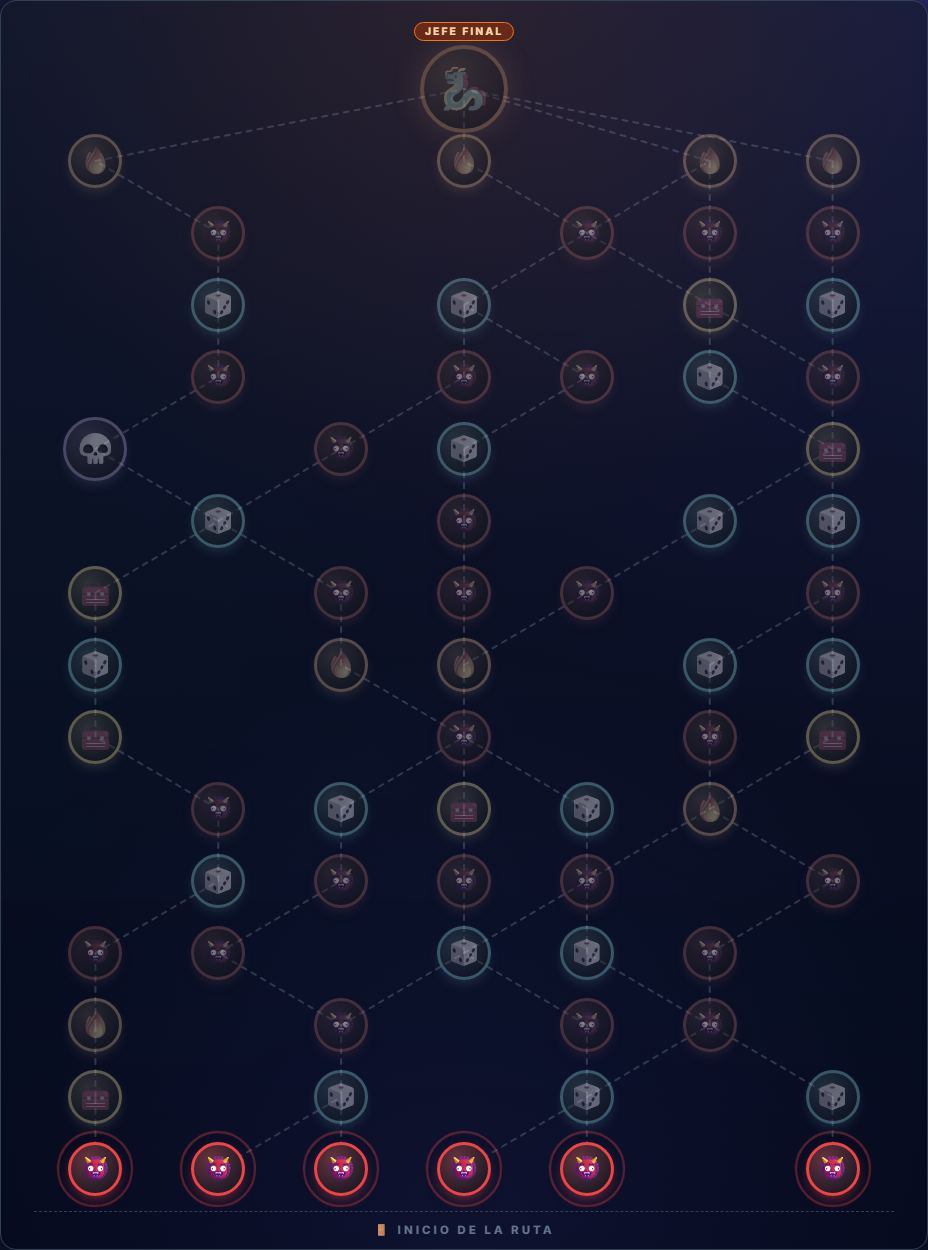
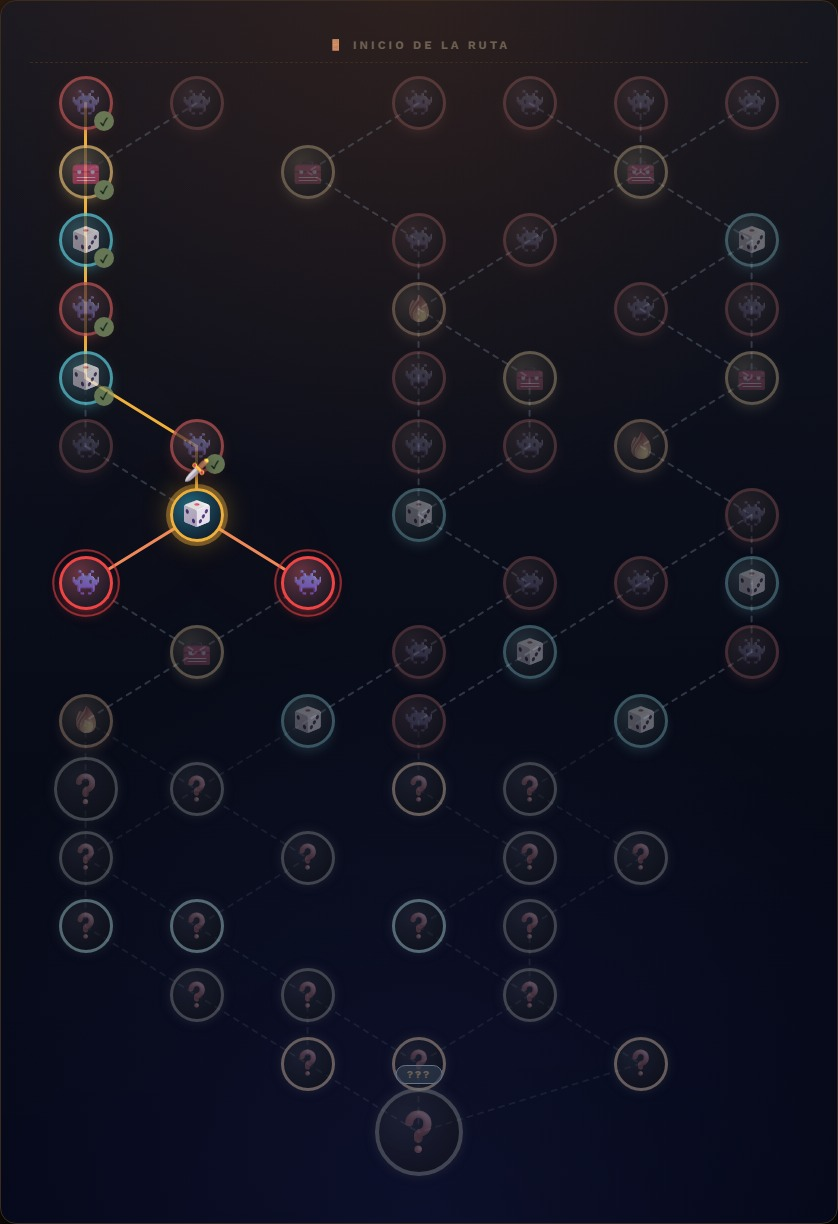
Versión 1.3.1: mapa al revés, niebla de guerra y nuevo icono de monstruo

diff --git a/src/ui.js b/src/ui.js
@@ -1,7 +1,7 @@
-import * as Engine from './engine.js?v=1.3.0';
-import * as Items from './items.js?v=1.3.0';
-import * as Meta from './meta.js?v=1.3.0';
-import * as Stats from './stats.js?v=1.3.0';
+import * as Engine from './engine.js?v=1.3.1';
+import * as Items from './items.js?v=1.3.1';
+import * as Meta from './meta.js?v=1.3.1';
+import * as Stats from './stats.js?v=1.3.1';
 
 // =============================================
 // 🖼 RPG-pack — capa de presentación (DOM)
@@ -136,9 +136,14 @@ export function renderRpgHeroPanel(hero, progressText, gold) {
         <div class="rpg-hero-progress">${esc(progressText || '')}</div>`;
 }
 
+// Niebla de guerra: cuántos pisos por delante de la posición actual se ven con claridad.
+// Piso actual + este número de opciones se ve; a partir de ahí, niebla, y se despeja según avanzas.
+const RPG_FOG_AHEAD = 3;
+
 /**
  * Dibuja el mapa: aristas en un SVG en porcentajes (se estira con el contenedor) y
- * nodos como botones posicionados en % (columna) / % (piso, el piso 0 abajo).
+ * nodos como botones posicionados en % (columna) / % (piso, el piso 0 arriba: se avanza hacia abajo).
+ * Los pisos que quedan a más de RPG_FOG_AHEAD opciones de la posición actual se cubren con niebla de guerra.
  * state: { currentId, visitedIds, heroIcon, animate }
  */
 export function renderRpgMap(map, state = {}) {
@@ -151,7 +156,7 @@ export function renderRpgMap(map, state = {}) {
     const skip = !!state.skip;
     const available = new Set(Engine.rpgAvailableNodes(map, currentId, skip));
     const byId = new Map(map.nodes.map(n => [n.id, n]));
-    const pos = n => ({ x: (n.col + 0.5) / cols * 100, y: (floors - 1 - n.floor + 0.5) / floors * 100 });
+    const pos = n => ({ x: (n.col + 0.5) / cols * 100, y: (n.floor + 0.5) / floors * 100 });
 
     const taken = new Set();
     for (let i = 1; i < visitedIds.length; i++) taken.add(`${visitedIds[i - 1]}>${visitedIds[i]}`);
@@ -160,38 +165,48 @@ export function renderRpgMap(map, state = {}) {
     const openFrom = new Set([currentId]);
     if (skip && current) current.next.forEach(id => openFrom.add(id));
 
+    const currentFloor = current ? current.floor : -1;
+    const isFogged = n => (n.floor - currentFloor) > RPG_FOG_AHEAD && n.id !== currentId
+        && !visited.has(n.id) && !available.has(n.id);
+
     const lines = map.nodes.flatMap(n => n.next.map(id => {
+        const to = byId.get(id);
         const a = pos(n);
-        const b = pos(byId.get(id));
+        const b = pos(to);
         const cls = taken.has(`${n.id}>${id}`) ? 'is-taken' : (openFrom.has(n.id) ? 'is-open' : '');
-        return `<line class="rpg-edge ${cls}" x1="${a.x}" y1="${a.y}" x2="${b.x}" y2="${b.y}" vector-effect="non-scaling-stroke"/>`;
+        const fog = isFogged(to) ? ' is-fog' : '';
+        return `<line class="rpg-edge ${cls}${fog}" x1="${a.x}" y1="${a.y}" x2="${b.x}" y2="${b.y}" vector-effect="non-scaling-stroke"/>`;
     })).join('');
 
     const nodesHtml = map.nodes.map((n, i) => {
         const t = Engine.RPG_NODE_TYPES[n.type];
         const p = pos(n);
+        const fogged = isFogged(n);
         const st = n.id === currentId ? 'is-current'
             : visited.has(n.id) ? 'is-visited'
             : available.has(n.id) ? 'is-available' : 'is-locked';
         const hero = st === 'is-current' ? ` data-hero="${esc(state.heroIcon || '')}"` : '';
-        let info = t.desc;
-        if (n.type === 'monster' || n.type === 'subboss' || n.type === 'boss') {
+        let icon = t.icon, name = t.name, info = t.desc;
+        if (fogged) {
+            icon = '❓'; name = 'Niebla de guerra'; info = 'Aún no has explorado tan lejos.';
+        } else if (n.type === 'monster' || n.type === 'subboss' || n.type === 'boss') {
             const s = Engine.rpgMonsterStats(n.type, n.floor);
             info = `${t.desc} ATK ${s.atq} · HP ${s.hp}`;
         }
-        return `<button type="button" class="rpg-node type-${esc(n.type)} ${st}" data-rpg-node="${esc(n.id)}"
+        return `<button type="button" class="rpg-node type-${esc(n.type)} ${st}${fogged ? ' is-fog' : ''}" data-rpg-node="${esc(n.id)}"
             style="left:${p.x}%;top:${p.y}%;--i:${i}" ${st === 'is-available' ? '' : 'disabled'}${hero}
-            title="${esc(t.name)} — ${esc(info)}" aria-label="${esc(t.name)}, piso ${n.floor + 1}">${t.icon}</button>`;
+            title="${esc(name)} — ${esc(info)}" aria-label="${fogged ? esc(name) : `${esc(name)}, piso ${n.floor + 1}`}">${icon}</button>`;
     }).join('');
 
     const boss = byId.get(map.bossId);
     const bp = pos(boss);
+    const bossFogged = isFogged(boss);
     el.style.setProperty('--rpg-floors', floors);
     el.classList.toggle('animate', !!state.animate);
     el.innerHTML = `
         <svg class="rpg-map-lines" viewBox="0 0 100 100" preserveAspectRatio="none" aria-hidden="true">${lines}</svg>
         ${nodesHtml}
-        <div class="rpg-boss-tag" style="left:${bp.x}%;top:${bp.y}%">JEFE FINAL</div>`;
+        <div class="rpg-boss-tag${bossFogged ? ' is-fog' : ''}" style="left:${bp.x}%;top:${bp.y}%">${bossFogged ? '???' : 'JEFE FINAL'}</div>`;
 
     if (state.animate) setTimeout(() => el.classList.remove('animate'), 1200);
 }

diff --git a/index.html b/index.html
@@ -8,7 +8,7 @@
     <link rel="preconnect" href="https://fonts.googleapis.com">
     <link rel="preconnect" href="https://fonts.gstatic.com" crossorigin>
     <link href="https://fonts.googleapis.com/css2?family=Cinzel:wght@600;800&family=Work+Sans:wght@400;500;600;700&display=swap" rel="stylesheet">
-    <link rel="stylesheet" href="style.css?v=1.3.0">
+    <link rel="stylesheet" href="style.css?v=1.3.1">
 </head>
 <body>
     <header class="game-header">
@@ -19,7 +19,7 @@
             <button type="button" class="game-nav-btn" data-panel="achievements" title="Logros"><span aria-hidden="true">🏆</span><span class="game-nav-label">Logros</span></button>
             <button type="button" class="game-nav-btn" data-panel="options" title="Opciones"><span aria-hidden="true">⚙</span><span class="game-nav-label">Opciones</span></button>
         </nav>
-        <span class="game-version">v1.3.0 · en desarrollo</span>
+        <span class="game-version">v1.3.1 · en desarrollo</span>
     </header>
 
     <!-- Paneles superpuestos: consultables en cualquier momento, sin abandonar la ruta en curso -->
@@ -38,7 +38,7 @@
                     <p class="rpg-start-kicker">Una mazmorra de 16 pisos · una ruta distinta cada vez</p>
                     <div id="rpgHeroCard" class="rpg-hero-card"></div>
                     <ul class="rpg-start-preview">
-                        <li><span aria-hidden="true">👹</span> Combates que se ven venir</li>
+                        <li><span aria-hidden="true">👾</span> Combates que se ven venir</li>
                         <li><span aria-hidden="true">🎲</span> Decisiones que cuestan algo</li>
                         <li><span aria-hidden="true">🔥</span> Hogueras para respirar</li>
                         <li><span aria-hidden="true">🐉</span> Un jefe al final del descenso</li>
@@ -65,8 +65,8 @@
                 </div>
                 <div class="rpg-legend" id="rpgLegend"></div>
                 <div class="rpg-map-wrap">
-                    <div class="rpg-map" id="rpgMap"></div>
                     <div class="rpg-map-start">🚪 INICIO DE LA RUTA</div>
+                    <div class="rpg-map" id="rpgMap"></div>
                 </div>
                 <div class="rpg-log" id="rpgLog">
                     <div class="rpg-log-title">📜 Diario de la ruta</div>
@@ -117,6 +117,6 @@
     </main>
 
     <script src="https://cdnjs.cloudflare.com/ajax/libs/gsap/3.12.5/gsap.min.js"></script>
-    <script type="module" src="src/main.js?v=1.3.0"></script>
+    <script type="module" src="src/main.js?v=1.3.1"></script>
 </body>
 </html>

diff --git a/style.css b/style.css
@@ -383,7 +383,7 @@ body {
 .rpg-map-wrap {
     max-width: 860px;
     margin: 0 auto;
-    padding: 52px clamp(12px, 3vw, 34px) 12px;
+    padding: 36px clamp(12px, 3vw, 34px) 56px;
     background:
         radial-gradient(circle at 50% 0%, rgba(249, 115, 22, 0.10), transparent 40%),
         radial-gradient(circle at 50% 100%, rgba(99, 102, 241, 0.10), transparent 45%),
@@ -411,6 +411,7 @@ body {
 }
 .rpg-edge.is-open { stroke: var(--primary-light); stroke-width: 3; stroke-dasharray: none; filter: drop-shadow(0 0 4px var(--primary-glow)); }
 .rpg-edge.is-taken { stroke: var(--gold); stroke-width: 3; stroke-dasharray: none; filter: drop-shadow(0 0 4px var(--gold-glow)); }
+.rpg-edge.is-fog { stroke: rgba(100, 116, 139, 0.16); }
 
 .rpg-node {
     --node-color: #ef4444;
@@ -440,6 +441,13 @@ body {
 .rpg-node.type-boss { --node-color: #f97316; --node-size: clamp(56px, 10vw, 88px); border-width: 4px; box-shadow: 0 0 34px -4px rgba(249, 115, 22, 0.7); }
 
 .rpg-node.is-locked { opacity: 0.42; filter: saturate(0.35); }
+.rpg-node.is-fog {
+    --node-color: #64748b;
+    opacity: 0.55;
+    filter: blur(0.5px) saturate(0.2);
+    background: radial-gradient(circle at 35% 30%, rgba(100, 116, 139, 0.3), #0b1220);
+    box-shadow: 0 0 14px -2px rgba(100, 116, 139, 0.5);
+}
 .rpg-node.is-visited { opacity: 0.75; filter: saturate(0.6); }
 .rpg-node.is-visited::after {
     content: '✓';
@@ -499,14 +507,15 @@ body {
     white-space: nowrap;
     pointer-events: none;
 }
+.rpg-boss-tag.is-fog { color: var(--text-dim); background: rgba(51, 65, 85, 0.6); border-color: #64748b; }
 
 .rpg-map-start {
-    margin-top: 6px;
-    padding-top: 10px;
+    margin-bottom: 6px;
+    padding-bottom: 10px;
     text-align: center;
     font-size: 0.72rem; font-weight: 800; letter-spacing: 3px;
     color: var(--text-dim);
-    border-top: 1px dashed var(--border-color);
+    border-bottom: 1px dashed var(--border-color);
 }
 
 /* --- Diario --- */

diff --git a/src/engine.js b/src/engine.js
@@ -1,7 +1,7 @@
-import { RPG_BALANCE } from './data/balance.js?v=1.3.0';
-import { pickMonsterDef } from './data/monsters.js?v=1.3.0';
-import { DAMAGE_TYPES, equipItem, createStarterItem, ruleSum, ruleMax, hasRule } from './items.js?v=1.3.0';
-import { PRIMARY_BASE, derivePrimary, isElementalDamage } from './stats.js?v=1.3.0';
+import { RPG_BALANCE } from './data/balance.js?v=1.3.1';
+import { pickMonsterDef } from './data/monsters.js?v=1.3.1';
+import { DAMAGE_TYPES, equipItem, createStarterItem, ruleSum, ruleMax, hasRule } from './items.js?v=1.3.1';
+import { PRIMARY_BASE, derivePrimary, isElementalDamage } from './stats.js?v=1.3.1';
 
 // =============================================
 // 🗡 RPG-pack — motor (puro, sin DOM)
@@ -79,7 +79,7 @@ export function rpgMonsterStats(type, floor) {
 }
 
 export const RPG_NODE_TYPES = {
-    monster:  { id: 'monster',  name: 'Monstruo', icon: '👹', desc: 'Combate contra un monstruo.' },
+    monster:  { id: 'monster',  name: 'Monstruo', icon: '👾', desc: 'Combate contra un monstruo.' },
     chest:    { id: 'chest',    name: 'Cofre',    icon: '🧰', desc: 'Un cofre con botín.' },
     event:    { id: 'event',    name: 'Evento',   icon: '🎲', desc: 'Una situación con dos decisiones.' },
     campfire: { id: 'campfire', name: 'Hoguera',  icon: '🔥', desc: 'Descansa o mejora tu arma.' },

diff --git a/src/data/monsters.js b/src/data/monsters.js
@@ -1,5 +1,5 @@
 // =============================================
-// 👹 Monstruos — quién es cada uno y CÓMO ataca (solo datos)
+// 👾 Monstruos — quién es cada uno y CÓMO ataca (solo datos)
 //
 // Cada monstruo tiene un patrón de movimientos que se repite en ciclo. El jugador ve el siguiente movimiento
 // ANTES de elegir su acción (intención visible), y ese movimiento es exactamente el que se ejecuta.
@@ -25,7 +25,7 @@ export const MONSTER_ROSTER = [
     { name: 'Lobo',             icon: '🐺', pattern: [atk(1), atk(1), atk(1.5)] },
     { name: 'Esqueleto',        icon: '🦴', pattern: [GUARD, atk(1.6), atk(1.4)] },
     { name: 'Araña Venenosa',   icon: '🕷', pattern: [atk(0.8), atk(1.2)] },
-    { name: 'Orco',             icon: '👹', pattern: [CHARGE, atk(2.5)] },
+    { name: 'Orco',             icon: '👾', pattern: [CHARGE, atk(2.5)] },
     { name: 'Gólem',            icon: '🗿', pattern: [GUARD, atk(2.2), REST] },
     { name: 'Cazador Sombrío',  icon: '🏹', pattern: [atk(1), atk(1), CHARGE, atk(2.5)] },
     { name: 'Necrófago',        icon: '🧟', pattern: [atk(1.2), heal(0.15), atk(1.2)] },

diff --git a/src/main.js b/src/main.js
@@ -1,12 +1,12 @@
-import * as UI from './ui.js?v=1.3.0';
-import * as Engine from './engine.js?v=1.3.0';
-import * as Events from './events.js?v=1.3.0';
-import * as Save from './save.js?v=1.3.0';
-import * as Items from './items.js?v=1.3.0';
-import * as Meta from './meta.js?v=1.3.0';
-import { RPG_BALANCE } from './data/balance.js?v=1.3.0';
-import { createRng, newSeed, seedToCode, codeToSeed } from './rng.js?v=1.3.0';
-import { GAME_VERSION } from './version.js?v=1.3.0';
+import * as UI from './ui.js?v=1.3.1';
+import * as Engine from './engine.js?v=1.3.1';
+import * as Events from './events.js?v=1.3.1';
+import * as Save from './save.js?v=1.3.1';
+import * as Items from './items.js?v=1.3.1';
+import * as Meta from './meta.js?v=1.3.1';
+import { RPG_BALANCE } from './data/balance.js?v=1.3.1';
+import { createRng, newSeed, seedToCode, codeToSeed } from './rng.js?v=1.3.1';
+import { GAME_VERSION } from './version.js?v=1.3.1';
 
 // Expuesto para depuración y para los tests del navegador
 window.Engine = Engine;

diff --git a/src/items.js b/src/items.js
@@ -1,6 +1,6 @@
-import { RARITIES, RARITY_BY_ID, RARITY_MIN, rollRarity, discardHeal } from './data/rarities.js?v=1.3.0';
-import { ITEM_BASES, ITEM_BASE_BY_ID, ITEM_SLOTS, DAMAGE_TYPES, BASIC_WEAPON_ID, basesBySlot } from './data/items.js?v=1.3.0';
-import { AFFIX_POOL, AFFIX_UNIQUES, affixText } from './data/affixes.js?v=1.3.0';
+import { RARITIES, RARITY_BY_ID, RARITY_MIN, rollRarity, discardHeal } from './data/rarities.js?v=1.3.1';
+import { ITEM_BASES, ITEM_BASE_BY_ID, ITEM_SLOTS, DAMAGE_TYPES, BASIC_WEAPON_ID, basesBySlot } from './data/items.js?v=1.3.1';
+import { AFFIX_POOL, AFFIX_UNIQUES, affixText } from './data/affixes.js?v=1.3.1';
 
 // =============================================
 // 🎒 RPG-pack — equipo (puro, sin DOM)

diff --git a/src/meta.js b/src/meta.js
@@ -1,7 +1,7 @@
-import { MONSTER_ROSTER, SUBBOSS_ROSTER, BOSS_DEF } from './data/monsters.js?v=1.3.0';
-import { EVENT_MONSTERS, RPG_EVENTS } from './data/events.js?v=1.3.0';
-import { DAMAGE_TYPES } from './items.js?v=1.3.0';
-import { PRIMARY_KEYS, XP_REWARD, POINTS_PER_LEVEL, xpToNext } from './stats.js?v=1.3.0';
+import { MONSTER_ROSTER, SUBBOSS_ROSTER, BOSS_DEF } from './data/monsters.js?v=1.3.1';
+import { EVENT_MONSTERS, RPG_EVENTS } from './data/events.js?v=1.3.1';
+import { DAMAGE_TYPES } from './items.js?v=1.3.1';
+import { PRIMARY_KEYS, XP_REWARD, POINTS_PER_LEVEL, xpToNext } from './stats.js?v=1.3.1';
 export { PRIMARY_KEYS, XP_REWARD, POINTS_PER_LEVEL, xpToNext };
 
 // =============================================

diff --git a/src/data/events.js b/src/data/events.js
@@ -19,8 +19,8 @@
 // El daño de un evento nunca mata: deja al héroe como mínimo en 1 HP.
 // =============================================
 
-import { RPG_BALANCE } from './balance.js?v=1.3.0';
-import { atk, CHARGE } from './monsters.js?v=1.3.0';
+import { RPG_BALANCE } from './balance.js?v=1.3.1';
+import { atk, CHARGE } from './monsters.js?v=1.3.1';
 
 // `pattern` = los movimientos que repite en ciclo (ver data/monsters.js); el jugador ve el siguiente antes de actuar.
 export const EVENT_MONSTERS = {

diff --git a/src/events.js b/src/events.js
@@ -1,6 +1,6 @@
-import * as Engine from './engine.js?v=1.3.0';
-import { campfireBonus } from './items.js?v=1.3.0';
-import { RPG_EVENTS, RPG_SPECIAL_EVENTS, EVENT_MONSTERS } from './data/events.js?v=1.3.0';
+import * as Engine from './engine.js?v=1.3.1';
+import { campfireBonus } from './items.js?v=1.3.1';
+import { RPG_EVENTS, RPG_SPECIAL_EVENTS, EVENT_MONSTERS } from './data/events.js?v=1.3.1';
 
 // =============================================
 // 🎲 RPG-pack — motor de eventos (puro, sin DOM)

diff --git a/src/version.js b/src/version.js
@@ -3,5 +3,5 @@
 // No se edita a mano: la cambia `npm run version -- patch|minor|major` (ver docs/versiones.md),
 // que también actualiza package.json, el registro de cambios y el código de caché de los archivos.
 // =============================================
-export const GAME_VERSION = '1.3.0';
+export const GAME_VERSION = '1.3.1';
 export const RELEASE_DATE = '2026-09-22';

diff --git a/src/save.js b/src/save.js
@@ -1,5 +1,5 @@
-import { createRng } from './rng.js?v=1.3.0';
-import { GAME_VERSION } from './version.js?v=1.3.0';
+import { createRng } from './rng.js?v=1.3.1';
+import { GAME_VERSION } from './version.js?v=1.3.1';
 
 // =============================================
 // 💾 Guardado de partida (puro: recibe el almacenamiento por parámetro, así se prueba sin navegador)
